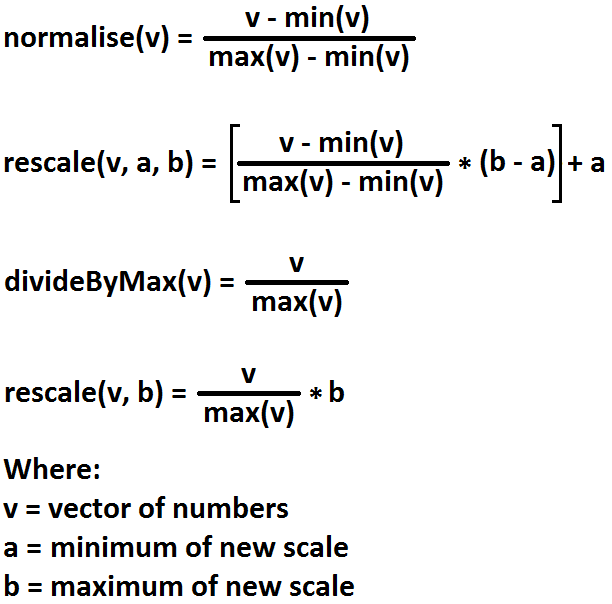
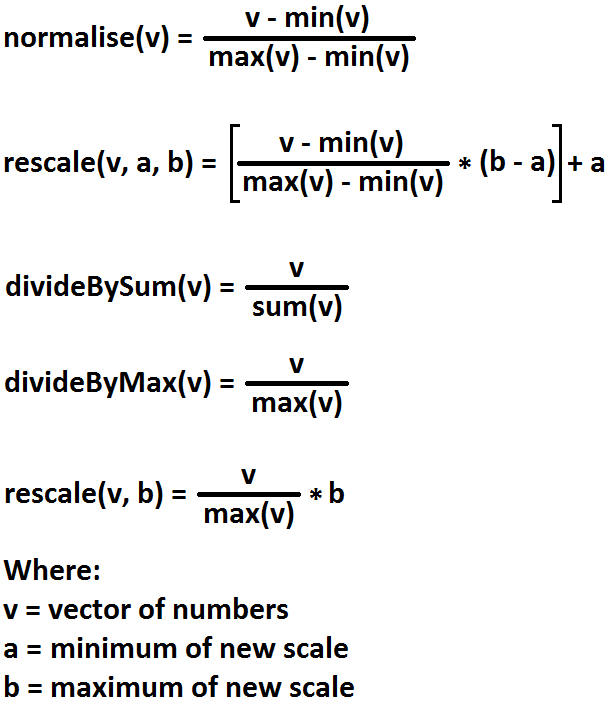
UpdateBlogPost

diff --git a/BlogPosts/SRASubmission_06-04-17/SRASubmission_06-04-17.html b/BlogPosts/SRASubmission_06-04-17/SRASubmission_06-04-17.html
@@ -72,7 +72,7 @@
                 4) Prepare metedata file for Sequence Read Archive submission<br>
                 &emsp;&emsp; - Download a SRA_metadata_acc.xlsx file (I had to begin a
                 <a href="https://submit.ncbi.nlm.nih.gov/subs/sra/">SRA submission</a>). I keep a copy
-                <a href="https://github.com/JosephCrispell/GeneralTools/blob/master/sra_subtemplate_v2-7.xlsx">here</a><br>
+                <a href="https://github.com/JosephCrispell/GeneralTools/NewZealand/sra_subtemplate_v2-7.xlsx">here</a><br>
                 &emsp;&emsp; - Fill in the required fields - using Bioproject number (PRJNA...) and Biosample accessions<br>
                 &emsp;&emsp; - You'll need the FASTQ file md5sum values - these can be found by using the following UNIX command:
             </p>

diff --git a/BlogPosts/Normalisation_06-12-17/Normalisation_06-12-17.html b/BlogPosts/Normalisation_06-12-17/Normalisation_06-12-17.html
@@ -80,6 +80,8 @@
 				
 				Pay attention to the scales! You really need to think about how the normalisation approach you selected may impact your results!<br><br>
 				
+				A quick note - to normalise a vector of numbers and have them sum to 1 then divide by the sum(v)<br><br>
+				
 				All the above was probably pretty obvious, but I guess it can't hurt to think these things through...<br><br>
             </p>
 			

diff --git a/BlogPosts/ThingsToRemember_11-10-17/ThingsToRemember_11-10-17.html b/BlogPosts/ThingsToRemember_11-10-17/ThingsToRemember_11-10-17.html
@@ -204,6 +204,16 @@
 				git commit -m "Write commit message here"<br>
 				git push
 			</div>
+			
+			<p>
+                -&emsp;Get axis limits of current plot in R
+            </p>
+            
+            <div id="codeBlock">
+			
+				# Returns vector: c(xMin, xMax, yMin, yMax)<br>
+				axisLimits &lt;- par("usr") <br>
+			</div>
         </div>
     </body>
 </html>
